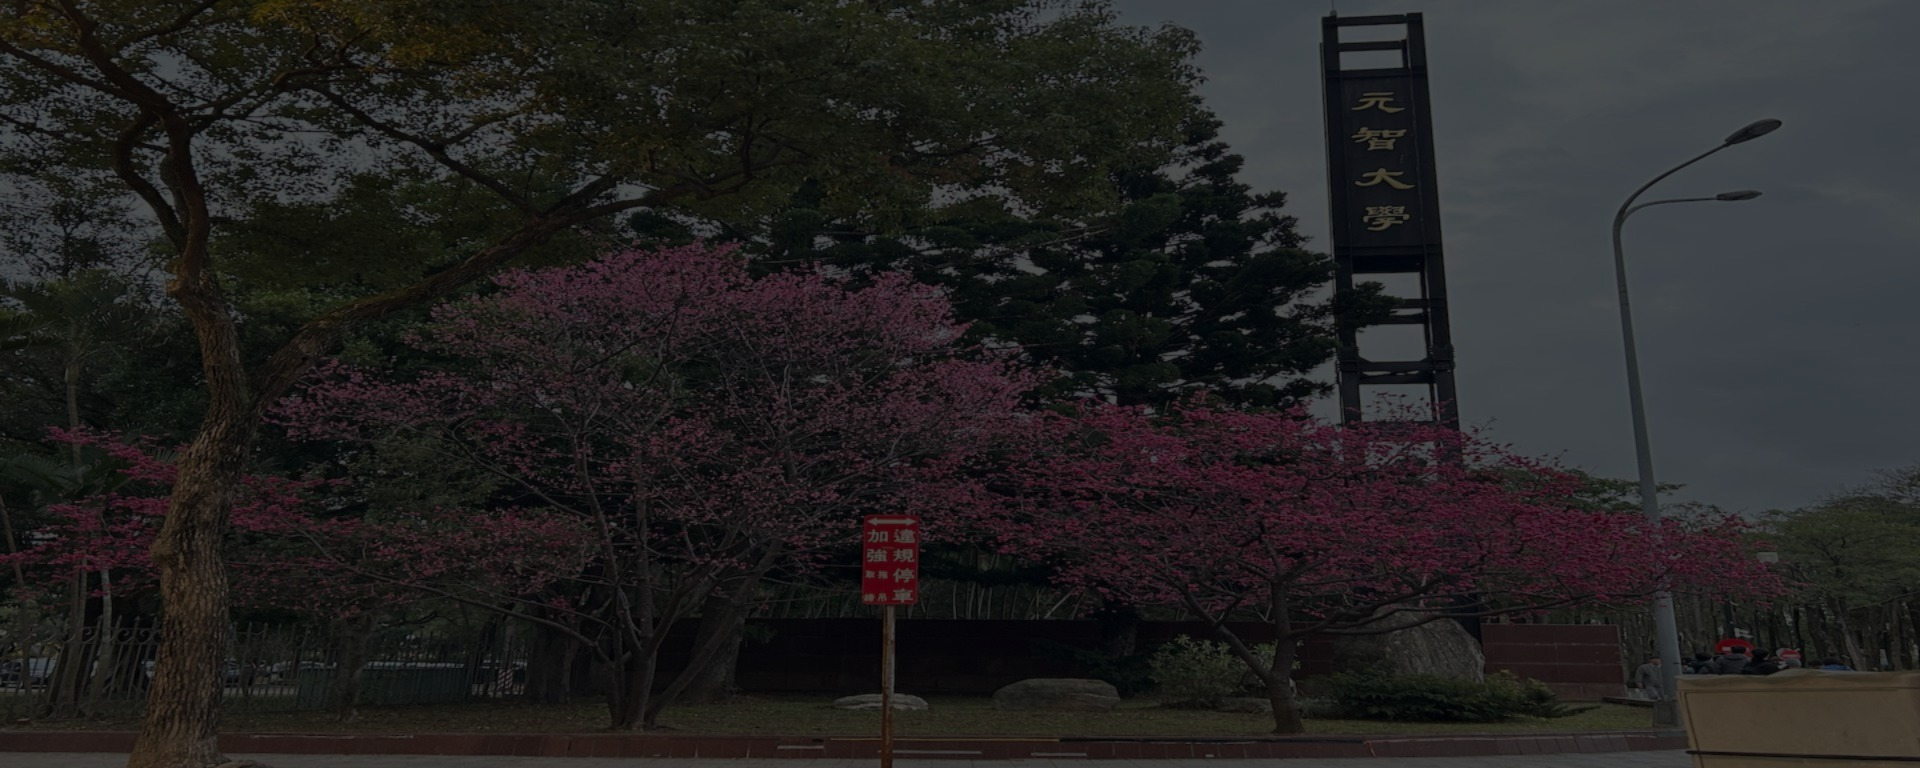
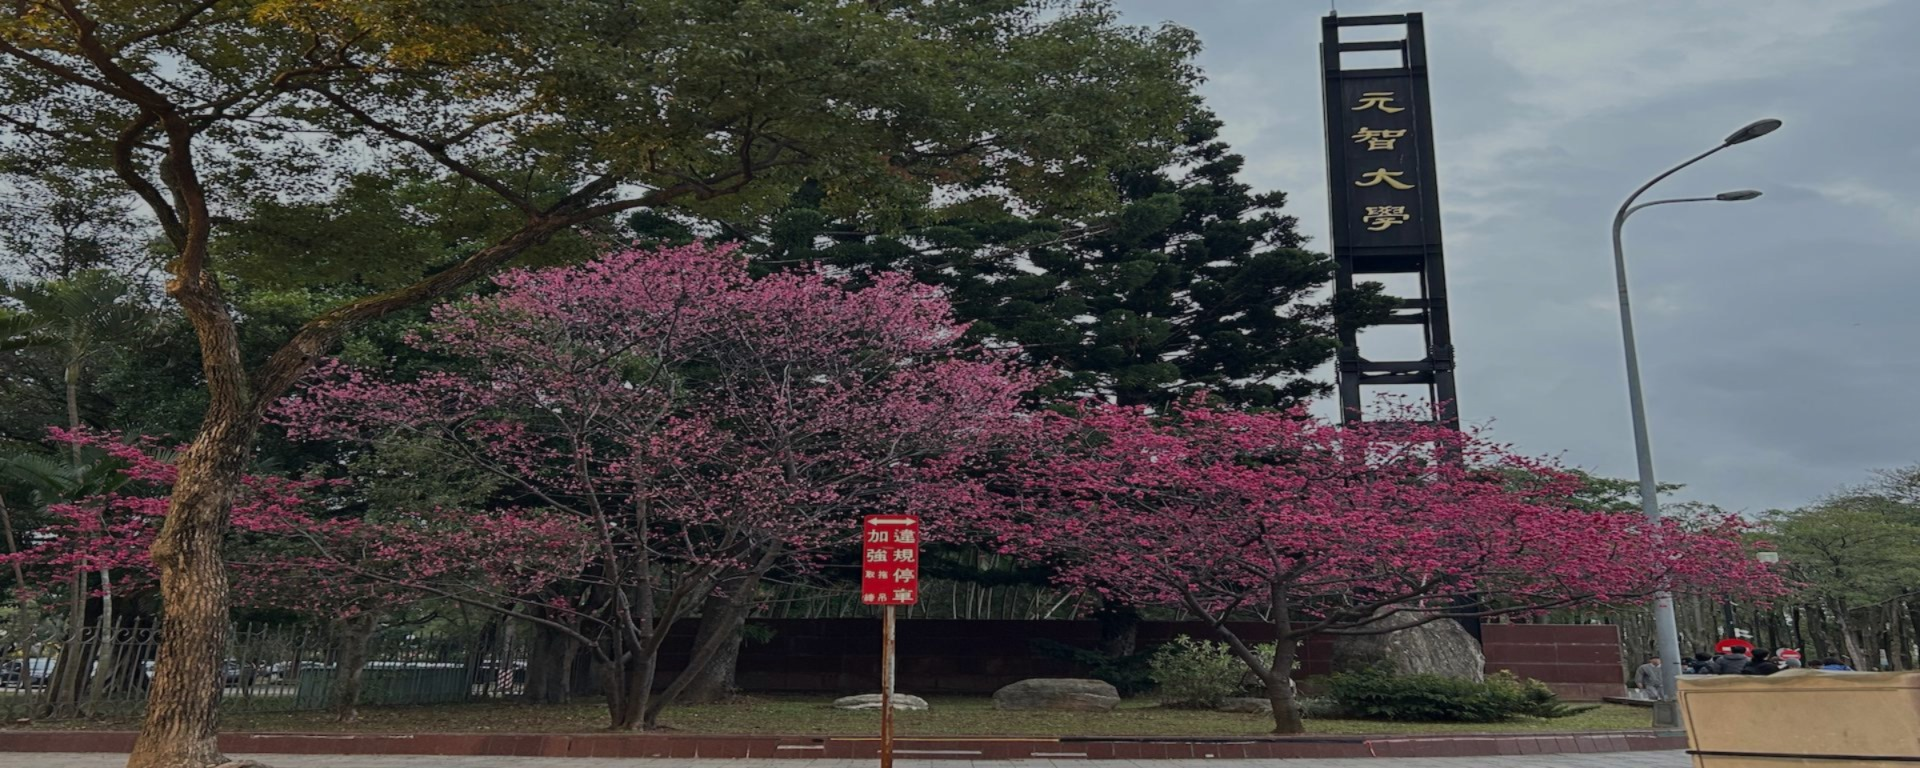
add bg

diff --git a/assets/css/main.css b/assets/css/main.css
@@ -2248,13 +2248,13 @@ input, select, textarea {
 			}
 
 			#main > section.one {
-				color: #dae4cd; /* Change to white for better contrast */
+				color: #e4e7df; /* Change to white for better contrast */
    				font-weight: bold;
     			text-shadow: 1px 1px 4px rgba(0, 0, 0.8, 0.8); /* Adds readability against bright backgrounds */
 				background-color: #81918E;
 				/* background-color: #ffff; */
 				/* background-image: url("../../images/banner.jpg"); */
-				background-image: url("../../images/yzupink.jpeg");
+				background-image: url("../../images/yzupink.JPG");
 				/* background-image: url("../../images/simon.jpg"); */
 			}
 
